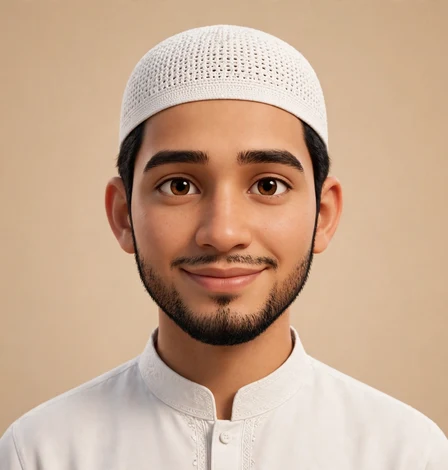
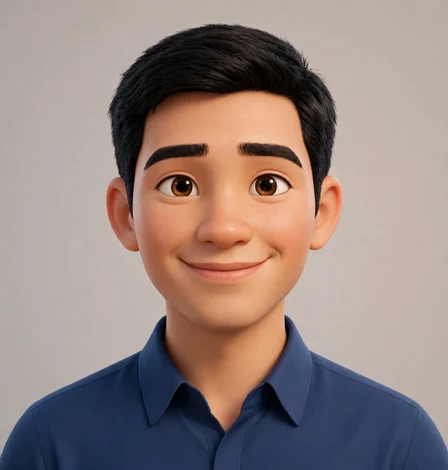
Creator courses: neutral 3D AI Teacher (no topi), no salam/mashaAllah, AI Teacher prompt rewritten for editing/content/design
Claude-Session: https://claude.ai/code/session_011gVV4rjsmEUZQBqpoJpgHQ

diff --git a/creator/class.js b/creator/class.js
@@ -29,7 +29,7 @@ const CX = {
   youFirst: { en: "Read it yourself first…", ur: "پہلے خود پڑھیں…", hi: "पहले ख़ुद पढ़ें…" },
   stop: { en: "Pause", ur: "روکیں", hi: "रोकें" },
   tapHint: { en: "Tap any box to hear it again. Repeat aloud every time.", ur: "کسی بھی خانے کو چھوئیں اور دوبارہ سنیں۔ ہر بار بلند آواز سے دہرائیں۔", hi: "किसी भी ख़ाने को छुएँ और दोबारा सुनें। हर बार बुलंद आवाज़ से दोहराएँ।" },
-  allRounds: { en: "All 3 rounds done — mashaAllah!", ur: "تینوں دور مکمل — ماشاءاللہ!", hi: "तीनों दौर पूरे — माशाअल्लाह!" },
+  allRounds: { en: "All 3 rounds done — well done!", ur: "تینوں دور مکمل — شاباش!", hi: "तीनों दौर पूरे — शाबाश!" },
   again: { en: "Do another round", ur: "ایک دور اور کریں", hi: "एक दौर और करें" },
   revNone: { en: "This is your first lesson, so there is nothing to revise yet. Continue to the next step.", ur: "یہ آپ کا پہلا سبق ہے، اس لیے ابھی دہرائی نہیں ہے۔ اگلے مرحلے پر جائیں۔", hi: "यह आपका पहला सबक़ है, इसलिए अभी दोहराई नहीं है। अगले चरण पर जाएँ।" },
   revP: { en: "Read yesterday's words again with the qari. Revision makes the lesson stay.", ur: "کل کے الفاظ قاری کے ساتھ دوبارہ پڑھیں۔ دہرائی سے سبق پکا ہوتا ہے۔", hi: "कल के अल्फ़ाज़ क़ारी के साथ दोबारा पढ़ें। दोहराई से सबक़ पक्का होता है।" },

diff --git a/creator/index.html b/creator/index.html
@@ -230,9 +230,9 @@ select.btn{appearance:auto}
 </div></header>
 <main id="app" class="wrap"></main>
 <footer class="foot"><div class="wrap"><span>© 2026 Quranic Science · Learn with Quranic Science AI</span><span><a href="/">quranicscience.info</a> · <a href="/terms">Terms</a> · <a href="/privacy">Privacy</a> · <a href="/refund-policy">Refund policy</a></span></div></footer>
-<button class="fab" id="fab"><img src="ustad/thumb.webp?v=2" alt=""><span data-t="ask"></span></button>
+<button class="fab" id="fab"><img src="ustad/thumb.webp?v=3" alt=""><span data-t="ask"></span></button>
 <aside class="drawer" id="drawer" aria-label="AI Teacher">
-  <div class="dh"><img src="ustad/thumb.webp?v=2" alt=""><b data-t="ustad"></b><button class="x" id="dx" aria-label="Close">×</button></div>
+  <div class="dh"><img src="ustad/thumb.webp?v=3" alt=""><b data-t="ustad"></b><button class="x" id="dx" aria-label="Close">×</button></div>
   <div class="log" id="log"></div>
   <p class="note" data-t="aiNote"></p>
   <form class="dform" id="dform"><textarea id="dq" data-ph="askPh"></textarea><button class="btn pri" data-t="send"></button></form>
@@ -243,10 +243,10 @@ select.btn{appearance:auto}
 <script src="https://www.gstatic.com/firebasejs/10.12.2/firebase-app-compat.js"></script>
 <script src="https://www.gstatic.com/firebasejs/10.12.2/firebase-auth-compat.js"></script>
 <script src="https://www.gstatic.com/firebasejs/10.12.2/firebase-firestore-compat.js"></script>
-<script src="ustad.js?v=6"></script>
-<script src="class.js?v=3"></script>
+<script src="ustad.js?v=7"></script>
+<script src="class.js?v=4"></script>
 <script src="icons.js?v=1"></script>
-<script src="app.js?v=7"></script>
+<script src="app.js?v=8"></script>
 <script src="creator.js?v=1"></script>
 <script src="screens.js?v=1"></script>
 </body>

diff --git a/creator/sw.js b/creator/sw.js
@@ -1,5 +1,5 @@
 /* Creator Courses · Quranic Science AI — offline shell. */
-const V = "qscr-v14", SHELL = ["./", "index.html", "class.js?v=3", "app.js?v=7", "icons.js?v=1", "theme.css?v=1", "ustad.js?v=6", "ustad/v_closed.webp?v=2", "ustad/thumb.webp", "creator.js?v=1", "screens.js?v=1", "icon-192.png", "icon-512.png", "manifest.webmanifest", "data/editing.json", "data/content.json", "data/design.json"];
+const V = "qscr-v15", SHELL = ["./", "index.html", "class.js?v=4", "app.js?v=8", "icons.js?v=1", "theme.css?v=1", "ustad.js?v=7", "ustad/v_closed.webp?v=3", "ustad/thumb.webp", "creator.js?v=1", "screens.js?v=1", "icon-192.png", "icon-512.png", "manifest.webmanifest", "data/editing.json", "data/content.json", "data/design.json"];
 self.addEventListener("install", e => { e.waitUntil(caches.open(V).then(c => c.addAll(SHELL)).catch(() => {})); self.skipWaiting(); });
 self.addEventListener("activate", e => { e.waitUntil(caches.keys().then(ks => Promise.all(ks.filter(k => k.startsWith("qscr-v") && k !== V).map(k => caches.delete(k))))); self.clients.claim(); });
 self.addEventListener("fetch", e => {

diff --git a/creator/ustad.js b/creator/ustad.js
@@ -14,7 +14,7 @@
   var reduce = false; try { reduce = matchMedia("(prefers-reduced-motion:reduce)").matches; } catch (e) {}
   function load() {
     if (ready === "loading" || ready === true) return; ready = "loading"; var n = 0;
-    ORDER.forEach(function (k) { var im = new Image(); im.onload = function () { if (++n === ORDER.length) { ready = true; instances.forEach(draw); } }; im.src = BASE + FILES[k] + "?v=2"; IMG[k] = im; });
+    ORDER.forEach(function (k) { var im = new Image(); im.onload = function () { if (++n === ORDER.length) { ready = true; instances.forEach(draw); } }; im.src = BASE + FILES[k] + "?v=3"; IMG[k] = im; });
   }
 
   /* ---------- text -> mouth shapes ---------- */
